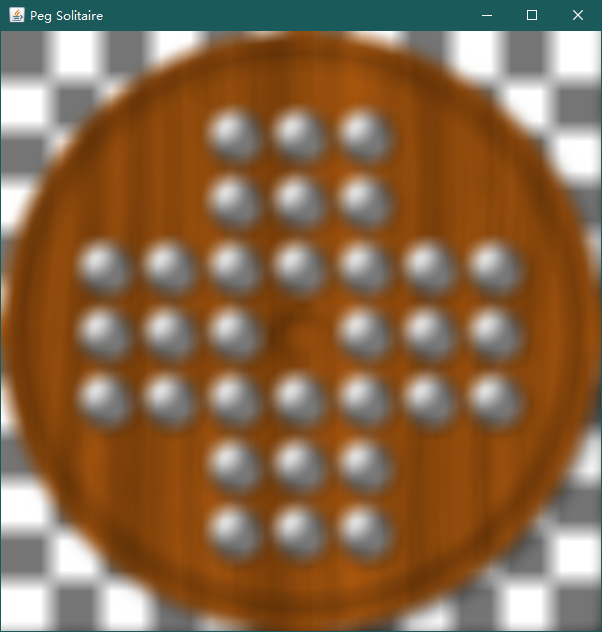
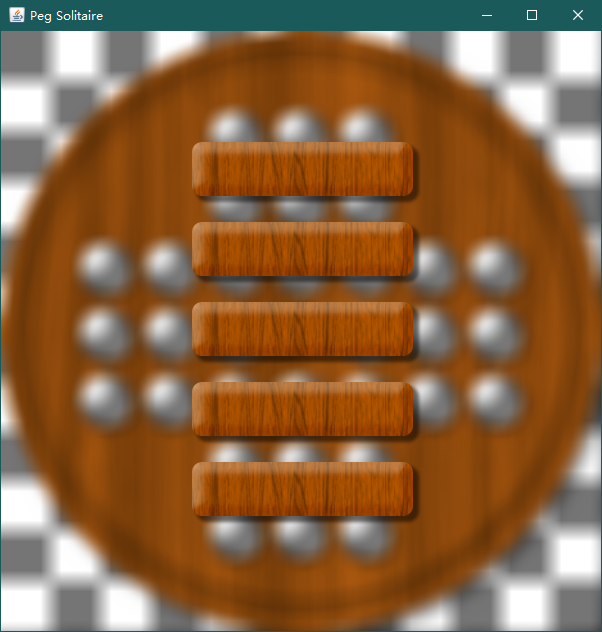
updated readme

Changed region(s): [[0.299, 0.2104, 0.7176, 0.8418]]

diff --git a/README.md b/README.md
@@ -58,9 +58,9 @@ Paused:
     - [x] Render the game itself
     - [x] make the game playable
     - [x] add blur effect when pressed escape key
-    - [ ] draw some menu icons/buttons
-    - [ ] add basic menu rendering
-    - [ ] add icons/buttons to the menu
+    - [x] draw some menu icons/buttons
+    - [x] add basic menu rendering
+    - [x] add icons/buttons to the menu
     - [ ] make the menu clickable
     - [ ] add ranking/record menu
     - [ ] add the animation that make the pieces which are taken be placed in the groove
